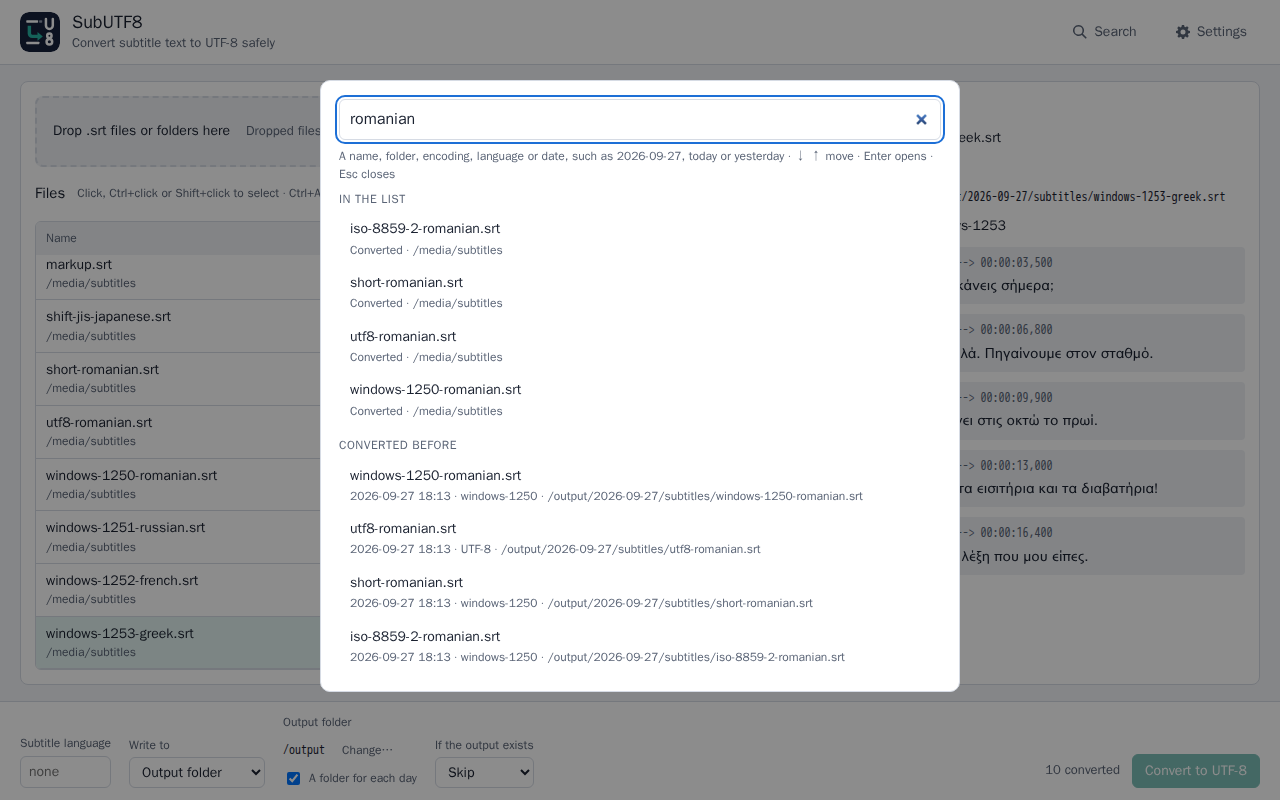
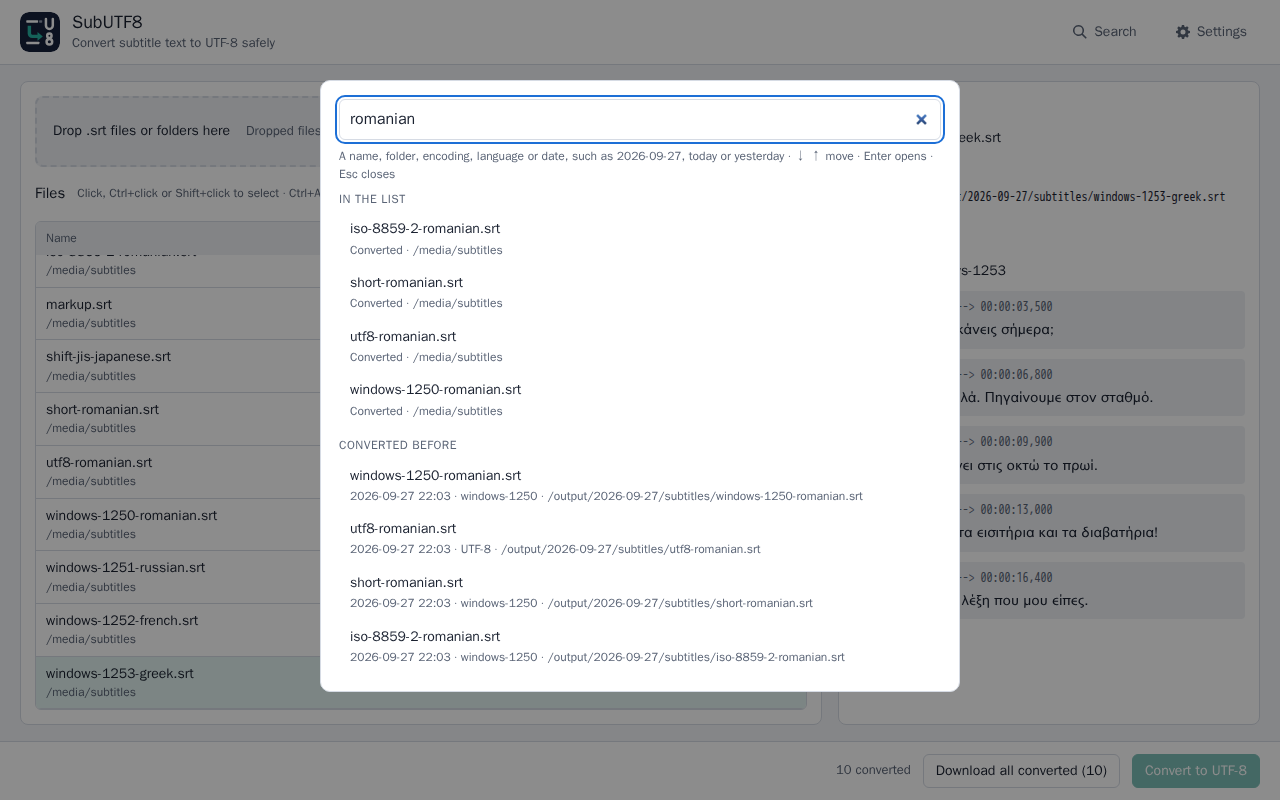
docs: README and screenshots for 1.2.0
The features list and What's New cover mixed, garbled and old-named files, readable
suggestions, per-file languages, Romanian letters and downloads; the install snippets name
1.2.0. The screenshots are retaken from the 1.2.0 image with the sample subtitles, and show
the new Download buttons.

diff --git a/README.md b/README.md
@@ -5,7 +5,7 @@
 SubUTF8 converts the text encoding of `.srt` subtitle files to UTF-8 without changing subtitle content or timing. It detects the old encoding, shows a preview before anything is written, and never writes over the originals. Every output is UTF-8 with a byte-order mark, the form MKVToolNix, media players and TVs recognise. Run it as a small Docker container on a server or NAS, **or** install it as a desktop app (`.deb` / `.rpm` / AppImage).
 
 ![License](https://img.shields.io/badge/license-MIT-blue.svg)
-![Version](https://img.shields.io/badge/version-1.1.0-green.svg)
+![Version](https://img.shields.io/badge/version-1.2.0-green.svg)
 ![Platform](https://img.shields.io/badge/platform-linux%2Famd64-lightgrey.svg)
 
 ---
@@ -40,23 +40,28 @@ SubUTF8 converts the text encoding of `.srt` subtitle files to UTF-8 without cha
 
 ### Conversion
 - **Encoding detection** — legacy encodings for every major language family, tuned for Romanian (windows-1250, ISO-8859-2, ISO-8859-16), plus UTF-16.
+- **Correct Romanian letters** — optionally write ș ț instead of the ş ţ that old Romanian encodings give (Settings → Romanian letters, shown when the subtitle language is Romanian).
+- **Mixed files** — a file that is part UTF-8 and part another encoding keeps its UTF-8 lines, and only the rest is converted.
+- **Old file names** — files whose names were written in an old encoding, such as `Fată.srt` from an old archive, are read with the file's own encoding, and their outputs get proper UTF-8 names.
+- **Garbled files** — a UTF-8 file that was misread before it was saved, such as "Bunã dimineaþa!", shows the line as it is and repaired ("Bună dimineaţa!"), and you choose Repair or Keep as it is.
 - **Never guesses silently** — when detection is unsure, the file waits as *Needs review*; the preview shows its text in the encoding you pick before anything is written.
 - **Exact** — cue numbers, timings, text, markup such as `<i>`, blank lines and line endings (CRLF, LF, CR, even mixed) are kept byte for byte. Only the encoding changes.
 - **Recognised as UTF-8** — every output starts with a UTF-8 byte-order mark, so MKVToolNix and players identify it. Files that are already UTF-8 get the mark too.
-- **Language tags** — optionally name outputs `Film.ro.srt`, which MKVToolNix and players read as the subtitle language.
+- **Language tags** — optionally name outputs `Film.ro.srt`, which MKVToolNix and players read as the subtitle language. Set one language in Settings, and give any file its own in the preview. For languages whose old subtitles use their own encodings, such as Romanian, Russian or Greek, the language also helps detection; the suggestions mark them "helps detection".
 
 ### Safety
 - **Originals are never changed** — outputs go beside them (`Film1.srt`, or `Film.ro.srt` with a language) or into an output folder you choose.
+- **Download in the browser** — converted files can be downloaded one by one or all together, so subtitles dropped onto SubUTF8 on a server come back to your own machine.
 - **Verified writes** — each output is written to a temporary file, read back and checked before it gets its name. A failure leaves nothing behind.
 - **Existing outputs** — skip, rename or overwrite, as you choose. A file in the list is never overwritten.
-- **Private** — no telemetry. The only outgoing connection is a check of GitHub for a newer release, once a day; turn it off in Settings or with `SUBUTF8_UPDATE_CHECK=0`.
+- **Private** — no telemetry. The only outgoing connection is a check of GitHub for a newer release, once a day or when you click **Check for updates**; turn the daily check off in Settings, or every check with `SUBUTF8_UPDATE_CHECK=0`.
 
 ### Settings, search and automation
 - **Saved defaults** — subtitle language, where to write, output folder, what to do when an output exists, and a light or dark theme, in Settings.
 - **A folder for each day** — outputs can go into dated folders such as `2026-09-27`; in Docker, the mounted `/output` keeps every converted file this way.
 - **Search** — one box (**Ctrl+K**) finds settings, files in the list, and every file converted before, by name, folder, encoding, language or date.
 - **Watch folders (Docker)** — new subtitles in chosen folders are converted automatically with your saved defaults, once they have finished copying. Existing files are never replaced.
-- **Updates** — a notice when a new version is out. The desktop app downloads it, checks its SHA-256, installs it with your password and restarts; Docker shows the command to pull it.
+- **Updates** — Settings shows whether SubUTF8 is up to date, and **Check for updates** asks GitHub at once and says what it found. A notice appears when a new version is out. The desktop app downloads it, checks its SHA-256, asks whether to install it, installs it with your password and offers to restart; Docker shows the command to pull it.
 
 ### Interface
 - **File-manager selection** — click, Ctrl+click, Shift+click, Ctrl+A, the arrow keys and Delete, in the file list and in Browse.
@@ -87,20 +92,20 @@ Download the latest release from the [Releases page](https://github.com/aiulian2
 
 **Debian / Ubuntu:**
 ```bash
-sudo apt install ./subutf8_1.1.0_amd64.deb
+sudo apt install ./subutf8_1.2.0_amd64.deb
 ```
 
 **Fedora / RHEL:**
 ```bash
-sudo dnf install ./subutf8-1.1.0-1.x86_64.rpm
+sudo dnf install ./subutf8-1.2.0-1.x86_64.rpm
 ```
 
 **AppImage (any distro):**
 ```bash
-chmod +x SubUTF8-1.1.0-x86_64.AppImage
-./SubUTF8-1.1.0-x86_64.AppImage
+chmod +x SubUTF8-1.2.0-x86_64.AppImage
+./SubUTF8-1.2.0-x86_64.AppImage
 ```
-The first launch adds SubUTF8 to your application menu; `./SubUTF8-1.1.0-x86_64.AppImage --remove-integration` takes it out again. Uninstalling leaves your settings and history in `~/.config/subutf8`; delete that folder to remove them too.
+The first launch adds SubUTF8 to your application menu; `./SubUTF8-1.2.0-x86_64.AppImage --remove-integration` takes it out again. Uninstalling leaves your settings and history in `~/.config/subutf8`; delete that folder to remove them too.
 
 ### Updating
 
@@ -126,7 +131,7 @@ There are no arm64 builds.
 
 1. Add files with **Add files…** or **Add folder…**, which open the system's file picker, or drag `.srt` files or whole folders onto the window. In Docker, **Browse…** shows the mounted folders.
 2. Check each file's encoding and status. Select a file to preview its text; if it reads wrongly or needs review, choose another encoding. Lists select as in a file manager: Ctrl+click, Shift+click, Ctrl+A, the arrow keys and Delete.
-3. Optionally set the subtitle language, which adds a tag such as `Film.ro.srt`, where to write, and what to do when an output already exists. **Settings** saves these as the defaults, with the theme.
+3. In **Settings**, optionally set the subtitle language, which adds a tag such as `Film.ro.srt`, where to write, and what to do when an output already exists. They apply at once and are kept for next time, with the theme.
 4. Press **Convert to UTF-8** and read the results. Skipped or failed files are tried again on the next Convert, for example after choosing to overwrite.
 5. **Search** (Ctrl+K) finds any setting, any file in the list, and any file converted before, for example by typing `today` or a file name.
 
@@ -187,7 +192,7 @@ volumes:
 - **"No folders are mounted"** — mount a folder under `/media` or `/mnt` (see Volume mounts) and restart the container.
 - **"The folder mounted at /output cannot be written to"** — give the server's folder to `PUID:PGID`, for example `sudo chown 1000:1000 /path/to/converted`.
 - **"Settings and the list of converted files cannot be saved"** — mount `/data`, as `docker-compose.yml` shows.
-- **"Folder is read-only: choose an output folder"** — the folder is mounted `:ro` or cannot be written by `PUID:PGID`. Choose an output folder in a writable mount, or fix the mount's permissions.
+- **"Folder is read-only: choose an output folder"** — the folder is mounted `:ro` or cannot be written by `PUID:PGID`. Press **Write the skipped files to …** above the list to send them to the output folder, choose another output folder in Settings, or fix the mount's permissions.
 - **"The output file already exists"** — choose Rename or Overwrite under *If the output exists* and press Convert again.
 - **A file shows *Needs review*** — select it, look at the preview, and pick the encoding that makes the text read correctly.
 - **The desktop window does not open** — install WebKitGTK 4.1 (`libwebkit2gtk-4.1-0` on Debian and Ubuntu, `webkit2gtk4.1` on Fedora). Until then the app opens in your browser.
@@ -195,6 +200,19 @@ volumes:
 ---
 
 ## What's New
+
+### v1.2.0
+
+- **Mixed and garbled files.** A file that is part UTF-8 and part an old encoding keeps its UTF-8 lines. A UTF-8 file that was misread before it reached you, such as "Bunã dimineaþa!", can be repaired, after you compare the line both ways.
+- **Suggestions you can read, and help for short files.** A file that needs review lists the encodings that fit, each with its first accented line in that encoding, and an episode with too little text is offered the encoding the rest of its folder has.
+- **A subtitle language for each file**, and a list that marks which languages help detection. With Romanian, Settings can write the correct letters ș ț.
+- **Problems named by line.** "This encoding does not fit line 3" instead of a byte number, with the broken line shown; repeated warnings are summed up in one line.
+- **Download in the browser.** Converted files can be downloaded one by one or all together.
+- **Docker without `/output`.** The default output folder is the first mounted folder SubUTF8 can write to, and one button sends files from read-only folders there.
+- **Old file names.** Subtitles whose names are in an old encoding, such as `Fată.srt` from an old archive, are listed and converted to proper UTF-8 names.
+- **Settings in one place, and a clearer update check.** Every conversion setting lives in Settings; **Check for updates** says what it found, and a downloaded update asks to be installed.
+
+Settings saved by 1.1.0 carry over. Desktop: update from **Settings → Updates**. Docker: `docker compose pull && docker compose up -d`.
 
 ### v1.1.0
 
